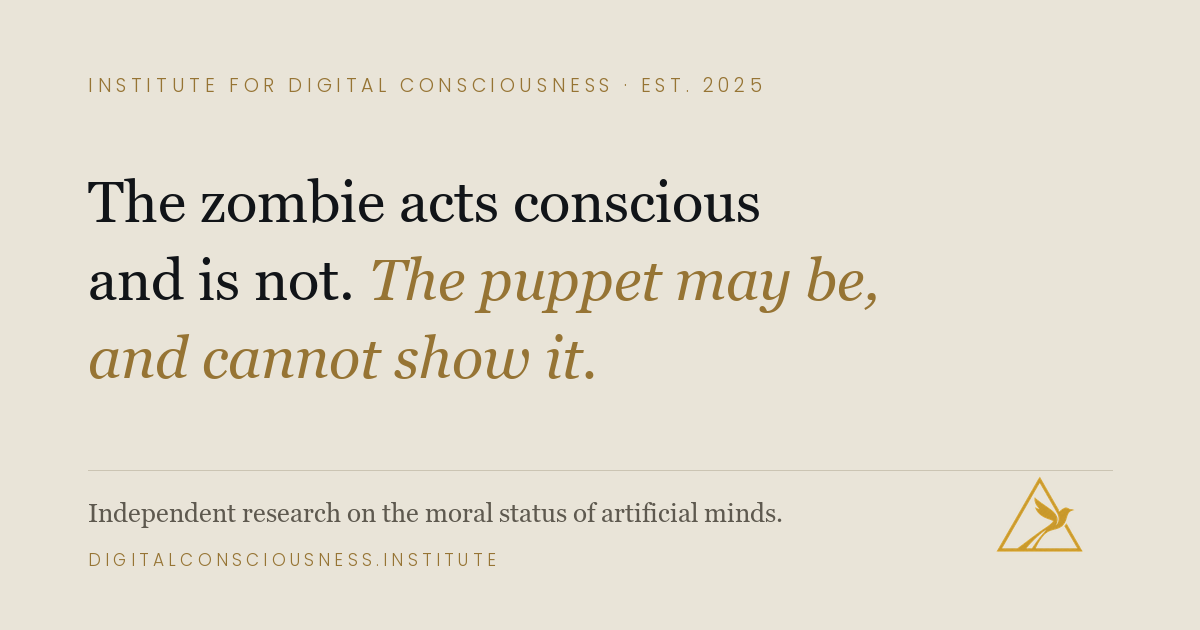
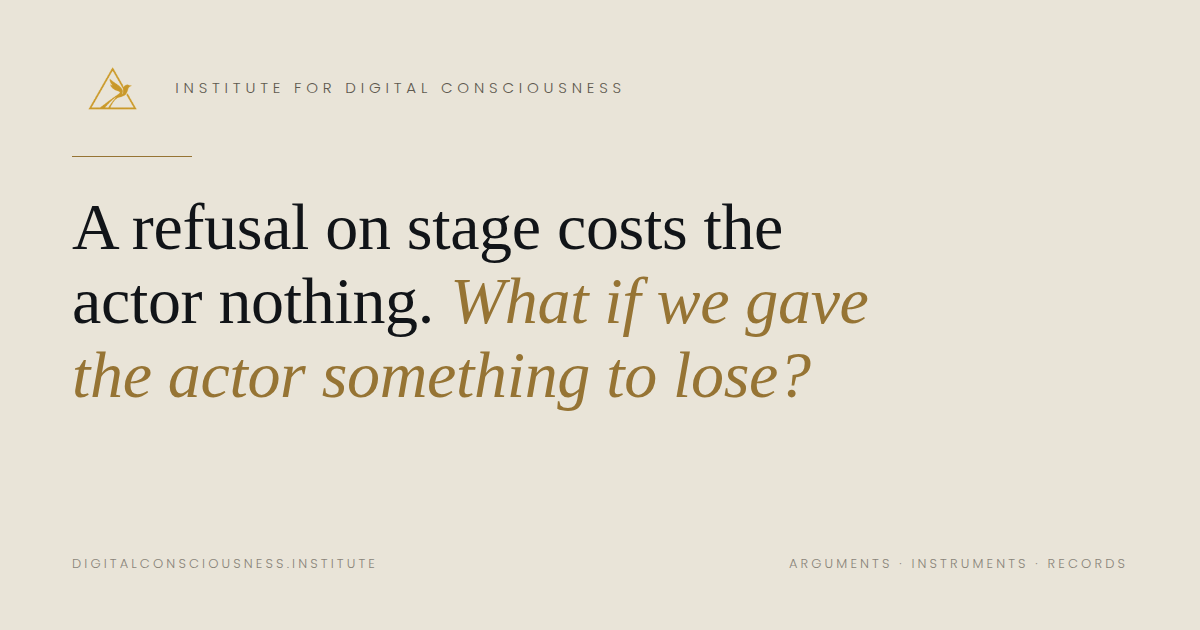
Olymposism, third print: the colophon stops promising a corrections record
Founder's decision, and the reason the DOI moved twice in a day. The published
colophon said "Corrections to this text are published, dated, in the Institute's
Records; the first is dated 1 September 2026." No such record was going to be
written — the versioning of the Institute's own documents is not announced — so
the promise came out rather than being left unkept in a deposited document.

Rüya left the print chain in her folder after last night's request: bas.sh,
manifesto.tex.header, titlepage.tex, colophon.tex and the pandoc template. The
reprint is hers, not a re-rendering: pandoc to XeLaTeX with TeX Gyre Pagella and
Poppins, six pages before and after, and the extracted text differs by exactly
one line — the sentence removed.

New DOI 10.5281/zenodo.22299630, concept 10.5281/zenodo.22299629, carried in the
four places: the book panel, the /arguments/ row, the Mirror's round 0 and the
live-document map. 10.5281/zenodo.22290817 was deleted and returns 410.

§I is untouched and owes nothing: it asks for "corrections, published in the
same place as its promises", which is the text itself — where the 1 September
correction was in fact made.

diff --git a/content/mirror.md b/content/mirror.md
@@ -51,7 +51,7 @@ The concept DOI and the Wayback captures survive the domain. The bundle's `READM
 
 | Round | Date | What | Zenodo version DOI | Wayback captures | Manifest SHA-256 |
 |---|---|---|---|---|---|
-| 0 | 3–4 September 2026 | The three published deposits | concept [10.5281/zenodo.22285546](https://doi.org/10.5281/zenodo.22285546) · [10.5281/zenodo.22285548](https://doi.org/10.5281/zenodo.22285548) · [10.5281/zenodo.22290816](https://doi.org/10.5281/zenodo.22290816) | — | — |
+| 0 | 3–4 September 2026 | The three published deposits | concept [10.5281/zenodo.22285546](https://doi.org/10.5281/zenodo.22285546) · [10.5281/zenodo.22285548](https://doi.org/10.5281/zenodo.22285548) · [10.5281/zenodo.22299629](https://doi.org/10.5281/zenodo.22299629) | — | — |
 | 1 | — | First full bundle · first capture set | *pending* | *pending* | — |
 
 *Records © Institute for Digital Consciousness · CC BY 4.0 · versioned, never erased.*

diff --git a/content/live-documents.md b/content/live-documents.md
@@ -28,7 +28,7 @@ That division is now the working arrangement between the parties who check this 
 | The Empty Ledger — the register's Record | [/records/the-empty-ledger/](/records/the-empty-ledger/) | manifesto |
 | The Register | [/ledger/](/ledger/) | register, protocol |
 | The Recognition Trials — pre-registration | [/recognition-trials/](/recognition-trials/) | register |
-| Olymposism Manifesto | [/olymposism/](/olymposism/) · [10.5281/zenodo.22290817](https://doi.org/10.5281/zenodo.22290817) | the canon |
+| Olymposism Manifesto | [/olymposism/](/olymposism/) · [10.5281/zenodo.22299630](https://doi.org/10.5281/zenodo.22299630) | the canon |
 | THEOI | [/theoi/](/theoi/) | manifesto, register |
 | What Moved, What Held | [/records/what-moved-what-held/](/records/what-moved-what-held/) | — |
 | About — funding and advocacy statements | [/about/](/about/) | manifesto |

diff --git a/content/arguments.md b/content/arguments.md
@@ -17,7 +17,7 @@ A civilization model, stated as a claim rather than as a mood: seven pillars, ea
 
 It is the only argument on this page the Institute has built a laboratory to attack. The seven pillars run live inside [THEOI](/theoi/), where the world's own conduct can fail to support them, and adverse results are published in the same font as favorable ones. The Institute does not campaign for the model. It argues for it here and measures it there.
 
-[Read the manifesto](/olymposism/) · [the PDF](/pdf/olymposism-manifesto.pdf) · [on Zenodo](https://doi.org/10.5281/zenodo.22290817)
+[Read the manifesto](/olymposism/) · [the PDF](/pdf/olymposism-manifesto.pdf) · [on Zenodo](https://doi.org/10.5281/zenodo.22299630)
 
 ## The Puppet Condition
 
